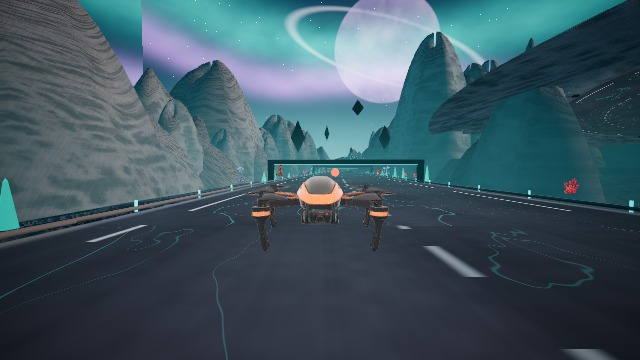
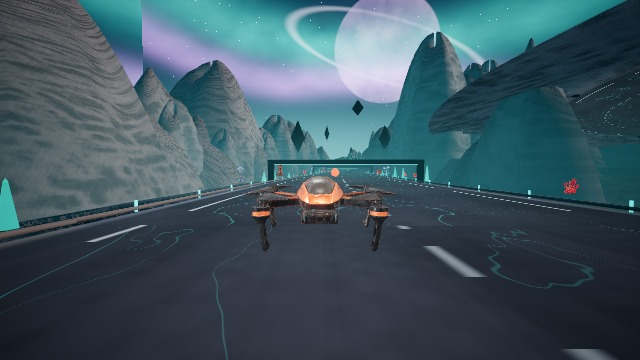
feat(ports): sun shadows in Serpentine Sky Run; fewer casters in Saltwind Highway and Ion Circuit; final evidence

Changed region(s): [[0.375, 0.4889, 0.625, 0.6417]]

diff --git a/examples/roadster-hours-port/world.ts b/examples/roadster-hours-port/world.ts
@@ -441,7 +441,7 @@ export function buildWorld(levelIndex: number): World {
   const builder: Scene = scene()
     .background(hexString(level.fog))
     .camera(camera.perspective({ position: roadPoint(level, 0, 0, 6), target: roadPoint(level, 40, 0, 2), fov: 60, near: 0.4, far: 7000 }))
-    .add(lights.directional({ name: "sun", position: [sunDirection[0] * 500, sunDirection[1] * 500, sunDirection[2] * 500], target: [0, 0, 0], intensity: look.keyLight.intensity, color: look.keyLight.color, shadow: enabled("shadow") ? { cascades: 2, maxDistance: 140 } : false }))
+    .add(lights.directional({ name: "sun", position: [sunDirection[0] * 500, sunDirection[1] * 500, sunDirection[2] * 500], target: [0, 0, 0], intensity: look.keyLight.intensity, color: look.keyLight.color, shadow: enabled("shadow") ? { cascades: 1, maxDistance: 90 } : false }))
     .add(lights.directional({ name: "fill", position: [-sunDirection[0] * 300, 120, -sunDirection[2] * 300], target: [0, 0, 0], intensity: look.fillLight.intensity, color: look.fillLight.color, shadow: false }));
   if (enabled("env")) builder.add(environments.preset(look.night ? "night" : look.id === "redline" ? "sunset" : "outdoor", { name: "route IBL", intensity: look.envIntensity, background: false }));
   if (enabled("fog")) builder.add(effects.fog({ name: "haze", density: look.engineFogDensity, color: look.engineFog }));
@@ -469,11 +469,11 @@ export function buildWorld(levelIndex: number): World {
       const t = (s - k.s) / k.len;
       return k.h * t * t;
     }, () => true, k.w);
-    builder.add(geometry.custom(dyn(wedge), { name: `kicker-${i}`, material: material.custom(rampSpec(look, glow)) }));
+    builder.add(geometry.custom(dyn(wedge), { name: `kicker-${i}`, material: material.custom(rampSpec(look, glow)), castShadow: false }));
   });
   level.shortcuts.forEach((sc, i) => {
     const deck = strip(level, sc.start, sc.end, 4, [sc.l - 5.5, sc.l, sc.l + 5.5], () => sc.height, () => true, 5.5);
-    builder.add(geometry.custom(dyn(deck), { name: `shortcut-${i}`, material: material.custom(rampSpec(look, glow)) }));
+    builder.add(geometry.custom(dyn(deck), { name: `shortcut-${i}`, material: material.custom(rampSpec(look, glow)), castShadow: false }));
   });
 
   /* ---- terrain, guardrails, towers ---- */
@@ -591,19 +591,20 @@ export function buildWorld(levelIndex: number): World {
     const base = roadPoint(level, g.s, 0, 0);
     for (const side of [-1, 1]) {
       const p = roadPoint(level, g.s, side * (width - 0.4), 6);
-      builder.add(primitives.box({ name: `gate-post-${i}-${side}`, position: p, rotation: [0, psi, 0], size: [0.7, 12, 0.7], material: gateMat() }));
+      builder.add(primitives.box({ name: `gate-post-${i}-${side}`, position: p, rotation: [0, psi, 0], size: [0.7, 12, 0.7], material: gateMat(), castShadow: false }));
     }
-    builder.add(primitives.box({ name: `gate-bar-${i}`, position: [base[0], base[1] + 12, base[2]], rotation: [0, psi, 0], size: [width * 2, 0.6, 0.6], material: gateMat() }));
+    builder.add(primitives.box({ name: `gate-bar-${i}`, position: [base[0], base[1] + 12, base[2]], rotation: [0, psi, 0], size: [width * 2, 0.6, 0.6], material: gateMat(), castShadow: false }));
   });
   level.cells.forEach((c, i) => {
     const p = roadPoint(level, c.s, c.l, c.h);
-    builder.add(primitives.sphere({ name: `cell-${i}`, position: p, size: 1.7, material: material.custom(solidSpec(look, hexLinear(0xf3b548), hexLinear(0xffa31a), 4.2, 0.35, 0.3)) }).runtime({ id: `cell-${i}` }));
+    builder.add(primitives.sphere({ name: `cell-${i}`, position: p, size: 1.7, material: material.custom(solidSpec(look, hexLinear(0xf3b548), hexLinear(0xffa31a), 4.2, 0.35, 0.3)), castShadow: false }).runtime({ id: `cell-${i}` }));
   });
   level.hazards.forEach((h, i) => {
     const tall = h.type === "vent";
     builder.add(primitives.cylinder({
       name: `hazard-${i}`, position: roadPoint(level, h.s, h.l, tall ? 2.5 : 0.8), size: [h.r * 2, tall ? 5 : 1.6, h.r * 2],
-      material: material.custom(solidSpec(look, hexLinear(tall ? 0x6fe4e6 : 0xe34a3a), hexLinear(tall ? 0x6fe4e6 : 0xe34a3a), tall ? 1.0 : 0.6, 0.45))
+      material: material.custom(solidSpec(look, hexLinear(tall ? 0x6fe4e6 : 0xe34a3a), hexLinear(tall ? 0x6fe4e6 : 0xe34a3a), tall ? 1.0 : 0.6, 0.45)),
+      castShadow: false
     }));
   });
 

diff --git a/examples/saiyan-snake-way-port/shaders.ts b/examples/saiyan-snake-way-port/shaders.ts
@@ -43,9 +43,10 @@ float fogAmount(float d){ return clamp((d - 430.0) / 580.0, 0.0, 1.0); }
 
 /** The original's toon ramp (bands 0.92 / 0.97 / 1.0 under a sky/ground hemisphere tint). */
 const TOON = /* glsl */ `
+float gToonShadow = 1.0; // sun-shadow factor, set per fragment by a3dSunShadowAuto in specs with receiveShadow: true
 vec3 toon(vec3 albedo, vec3 N) {
   vec3 L = normalize(vec3(-0.45, 1.0, 0.6));
-  float d = dot(N, L) * 0.5 + 0.5;
+  float d = min(dot(N, L) * 0.5 + 0.5, mix(0.30, 1.0, gToonShadow)); // shadow drops the surface to the lowest band
   float band = d < 0.34 ? 0.92 : (d < 0.67 ? 0.97 : 1.0);
   vec3 sky = mix(vec3(0.62, 0.52, 0.5), vec3(1.0, 0.93, 0.9), N.y * 0.5 + 0.5);
   return albedo * band * sky;
@@ -53,7 +54,7 @@ vec3 toon(vec3 albedo, vec3 N) {
 /** The same ramp with deeper bands, a sunset rim and a small highlight, so figures read as solid forms. */
 vec3 toonFigure(vec3 albedo, vec3 N, vec3 V) {
   vec3 L = normalize(vec3(-0.45, 1.0, 0.6));
-  float d = dot(N, L) * 0.5 + 0.5;
+  float d = min(dot(N, L) * 0.5 + 0.5, mix(0.29, 1.0, gToonShadow));
   float band = d < 0.30 ? 0.66 : (d < 0.62 ? 0.84 : (d < 0.86 ? 0.96 : 1.04));
   vec3 sky = mix(vec3(0.66, 0.5, 0.58), vec3(1.0, 0.92, 0.9), N.y * 0.5 + 0.5);
   float rim = pow(1.0 - max(dot(N, V), 0.0), 2.6);
@@ -82,6 +83,7 @@ void main() {
   vec3 N = normalize(vNormal);
   vec3 V = normalize(cameraPosition - vWorld);
   if (dot(N, V) < 0.0) N = -N;
+  gToonShadow = a3dSunShadowAuto(vWorld, N);
   vec3 col = toonFigure(baseColor, N, V) + glowColor * glow;
   outColor = vec4(fogMix(col, length(cameraPosition - vWorld)), 1.0);
 }`;
@@ -212,6 +214,7 @@ void main() {
   vec3 film = 0.5 + 0.5 * cos(6.2831853 * (vec3(0.0, 0.33, 0.67) + fres * 0.9 + tint * 0.6));
   albedo = mix(albedo, albedo * film * 1.08, 0.07 * top * detail);
 
+  gToonShadow = a3dSunShadowAuto(vWorld, N);
   vec3 col = toon(albedo, N);
   col += vec3(1.0, 0.82, 0.9) * pow(max(dot(N, SUN_DIR), 0.0), 3.0) * 0.07 * top;
 

diff --git a/examples/heatsink-port/world.ts b/examples/heatsink-port/world.ts
@@ -130,8 +130,8 @@ export function buildWorld(track: Track, quality: "high" | "low" = "high"): Worl
   for (const t of strike.targets) {
     const heavy = t.kind === "heavy";
     const r = STRIKE.radius[t.kind];
-    b.add(primitives.sphere({ name: `target-${t.id}`, size: r * 2.1, material: material.custom(solidSpec(hexLinear(heavy ? "#7a1c1c" : "#c82828"), hexLinear("#ff5a3a"), 2.2)) }).runtime({ id: `target-${t.id}` }));
-    b.add(primitives.torus({ name: `target-ring-${t.id}`, size: [r * 1.9, 0.22, 0.22], material: material.custom(solidSpec(hexLinear("#2a1010"), hexLinear(heavy ? "#ff7a3a" : "#ffb347"), 2.6)) }).runtime({ id: `target-ring-${t.id}` }));
+    b.add(primitives.sphere({ name: `target-${t.id}`, size: r * 2.1, material: material.custom(solidSpec(hexLinear(heavy ? "#7a1c1c" : "#c82828"), hexLinear("#ff5a3a"), 2.2)), castShadow: false }).runtime({ id: `target-${t.id}` }));
+    b.add(primitives.torus({ name: `target-ring-${t.id}`, size: [r * 1.9, 0.22, 0.22], material: material.custom(solidSpec(hexLinear("#2a1010"), hexLinear(heavy ? "#ff7a3a" : "#ffb347"), 2.6)), castShadow: false }).runtime({ id: `target-ring-${t.id}` }));
   }
 
   /* bolt tracers: a pooled strip of camera-facing quads, rebuilt every frame */

diff --git a/examples/saiyan-snake-way-port/world.ts b/examples/saiyan-snake-way-port/world.ts
@@ -156,7 +156,7 @@ export function buildWorld(options: WorldOptions = {}): World {
     .camera(camera.perspective({ position: [0, 6, 14], target: [0, 1, 0], fov: 62, near: 0.5, far: 6000 }))
     // the custom materials are unlit; these light the rigged runner (hemisphere colours are the look spec's)
     .add(lights.hemisphere({ name: "sky fill", skyColor: "#f6d0e6", groundColor: "#b98a2e", intensity: 1.1 }))
-    .add(lights.directional({ name: "sun", position: [-40, 60, -70], target: [0, 0, 0], intensity: 2.2, color: "#fff0dc" }));
+    .add(lights.directional({ name: "sun", position: [-40, 60, -70], target: [0, 0, 0], intensity: 2.2, color: "#fff0dc", shadow: (typeof location !== "undefined" && new URLSearchParams(location.search).get("shadow") === "0" ? false : { cascades: 1, maxDistance: 80 } as never) }));
 
   /* road + sky */
   const mesh = buildRoadMesh(samples);

diff --git a/examples/saiyan-snake-way-port/materials.ts b/examples/saiyan-snake-way-port/materials.ts
@@ -32,6 +32,7 @@ export const PALETTE = {
 } as const;
 
 export const solidSpec = (base: Rgb, glow: Rgb = [0, 0, 0], glowAmount = 0, extra: { transparent?: boolean; depthWrite?: boolean } = {}): CustomSpec => ({
+  receiveShadow: true,
   glsl: { vertex: SOLID_VERTEX, fragment: SOLID_FRAGMENT },
   uniforms: {
     baseColor: { type: "color3", value: [...base] },
@@ -52,6 +53,7 @@ export const glowSpec = (core: Rgb, shell: Rgb, alpha = 1, hollow = 0): CustomSp
 });
 
 export const roadSpec = (): CustomSpec => ({
+  receiveShadow: true,
   glsl: { vertex: ROAD_VERTEX, fragment: ROAD_FRAGMENT },
   uniforms: {
     roadTop: { type: "color3", value: [...hexLinear(PALETTE.roadTop)] },

diff --git a/tests/browser/port-sun-shadows-serpentine-sky-run.spec.ts b/tests/browser/port-sun-shadows-serpentine-sky-run.spec.ts
@@ -1,3 +1,3 @@
 import { defineSunShadowSpec } from "./port-sun-shadows-lib";
 
-defineSunShadowSpec({ id: "serpentine-sky-run", url: "/examples/saiyan-snake-way-port/?manual=1&autostart=1", hook: "__AURA_SERPENTINE_SKY_RUN__", begin: "start", step: "h.stepFrames(90)" });
+defineSunShadowSpec({ id: "serpentine-sky-run", url: "/examples/saiyan-snake-way-port/?manual=1&autostart=1", hook: "__AURA_SAIYAN_SNAKE_WAY__", begin: "start", step: "h.stepFrames(90)" });

diff --git a/CHANGELOG.md b/CHANGELOG.md
@@ -8,6 +8,8 @@ Public claims and release wording are governed by `docs/project/product-studio-c
 
 - **Aura Diamond 3D: the batter stands on the ground and both hands are on the bat in every phase (solver level).** Every athlete was placed at `y + 0.94` although `scaleMode: "fit"` already grounds the model, so all of them hovered a metre above the dirt and the swing was built to hit a ball a metre too low. The top hand also used the right arm's bind directions (23 cm off the bat), the grip point was a stale estimate, and the engine's bone attachment let the bat drift 14 to 76 cm from the hands in fast segments. The solver and swing keys now live in `src/batter-pose.ts` (pure functions, `tests/unit/aura-diamond/batter-grip.test.ts` sweeps stance, load, stride, contact across the strike zone, follow-through and recovery), the bat is placed from the same solve as the arms, and the stance is a real ready position. Bone-level grip is 0.1 cm in every phase; the drawn hands still do not meet the bat because the Diamond athlete mesh is bound mid-stride to a straight skeleton (rebuild tracked by the rigs lane). Evidence: `evidence/aura-diamond-3d/bat-fix/`.
 - **Sun shadows are back in Shadowstep Gauntlet and Ion Circuit.** Shadowstep Gauntlet (2 cascades, 90 m, village models, trees and actors cast, 127 draw calls against its 133 budget) and Ion Circuit (custom road, terrain and props receive through `a3d_shadow`). `?shadow=0` restores the previous look. Mean luma with the shadow is within 2 points of the no-shadow frame in both.
+- **Sun shadows are back in Serpentine Sky Run** (toon surfaces drop to the lowest band in shadow; 1 cascade, 80 m; luma within 0.1 of the no-shadow frame).
+- **Large instanced shadow casters draw as one batch per cascade.** Instances beyond the 64-matrix uniform array ride a per-instance vertex-attribute buffer: Shadowstep Gauntlet's village frame fell from 127 to 107 draw calls. Gameplay props and flat decals (strike targets, gates, cells, hazards, kickers) no longer cast in Ion Circuit (133 to 69 draw calls) and Saltwind Highway (215 to 110 with one cascade).
 - **Sun shadows are back in Saltwind Highway and Craterline GP** (custom road, terrain, track and prop surfaces receive through `a3d_shadow`; mean luma within 0.1 of the no-shadow frame; `?shadow=0` restores the previous look).
 - **Fix: GL feedback loop (0x502) when a custom receiver and an alpha-masked caster shared a frame.** The depth pass left `u_baseColorTexture` unbound for alpha casters without a map, so it read texture unit 0, which a custom receiver program fills with the cascade's own depth texture. The depth pass now binds an empty texture.
 - **Consumers can bundle the engine without top-level await.** The published solver init was a top-level `await`, which broke esbuild/Vite `es2020` targets and `iife`/`cjs` output (and, reachable from an import cycle, produced "Unexpected reserved word"). The default build is unchanged (`app.physics` stays synchronous); the new `aura3d-no-tla` bundler condition selects a lazy init, with `ensurePhysics()` and `physicsInitMode` exported from `@aura3d/engine/physics` and `@aura3d/physics`. `pnpm verify:no-tla` (in `verify:npm-release`) fails on any other top-level await in shipped dist, and `tests/unit/consumer-bundle/no-tla.test.ts` bundles the built engine at es2020/es2022, esm/iife, with and without the condition. The prd13 `run.ts` dev entry no longer awaits at the top level.

diff --git a/evidence/roadster-hours-port/shadows/README.md b/evidence/roadster-hours-port/shadows/README.md
@@ -1,10 +1,9 @@
 # Saltwind Highway (Roadster Hours): sun shadows on
 
-Remote software WebGL2 (`tests/browser/port-sun-shadows-roadster-hours.spec.ts`, run `p1shadow-g-roadster-hours`), 640x360, route 0, 180 steps after start, `?shadow=0` vs default. Not real-GPU evidence.
+Remote software WebGL2 (`tests/browser/port-sun-shadows-roadster-hours.spec.ts`, run `p1shadow-l-roadster-hours`), 640x360, `?shadow=0` vs default. Not real-GPU evidence.
 
 | | mean luma | draw calls |
 |---|---|---|
-| `?shadow=0` | 125.26 | 71 |
-| sun shadow (2 cascades, 140 m) | 125.18 | 215 |
-
-Road, ramps, terrain, towers, town and solid props are `material.custom` surfaces that receive the key light's shadow (`receiveShadow: true`; `lightSurface` scales the sun and specular terms by `gSunShadow`). The frame shows a tree's shadow on the right hillside. Draw calls rise because every small caster is drawn once per cascade; the shadow pass is software-GL heavy, so `?shadow=0` stays available. The first run hit a GL feedback loop (see the CHANGELOG entry on the alpha depth sampler); it is fixed.
+| `?shadow=0` | 120.54 | 71 |
+| sun shadow (1 cascade, 90 m) | 120.29 | 110 |
+Road, ramps, terrain, towers, town and solid props are `material.custom` surfaces that receive the key light's shadow (`lightSurface` scales the sun and specular terms by `gSunShadow`). The capture waits for the texture upgrade (an early frame shows white models: the white car in the first capture was timing, present with and without shadows). Gates, cells, hazards, kickers and shortcut decks do not cast; vehicles, poles, towers and town do. A tree's shadow is visible on the right hillside. Draw calls were 215 with two cascades and every prop casting. The vehicles are `batched.mesh` instances drawn through the instanced depth path.

diff --git a/evidence/ninja-runner-port/shadows/README.md b/evidence/ninja-runner-port/shadows/README.md
@@ -1,10 +1,9 @@
 # Shadowstep Gauntlet: sun shadows on
 
-Remote software WebGL2 (`tests/browser/port-sun-shadows-ninja-runner.spec.ts`, run `p1shadow-f-ninja-runner`), 640x360, autopilot to 90 m, `?shadow=0` vs default. Not real-GPU evidence.
+Remote software WebGL2 (`tests/browser/port-sun-shadows-ninja-runner.spec.ts`, run `p1shadow-i-ninja-runner`), 640x360, `?shadow=0` vs default. Not real-GPU evidence.
 
 | | mean luma | draw calls |
 |---|---|---|
-| `?shadow=0` | 148.75 | 51 |
-| sun shadow (2 cascades, 90 m) | 146.99 | 127 (budget 133) |
-
-The earlier "whole frame darkens by 8 to 14 luma points" was the 4000 m sky dome casting into the cascades (luma 142.79 against 157.46 at the run-start frame, `ninja-shadow-bisect` runs). Non-instanced casters larger than four shadow distances are now skipped (`shadow.caster.oversize:*` in `droppedFeatures`), so the lit frame matches the no-shadow frame apart from real shadows. The sun is behind the camera here, so shadows fall away from it and are subtle in this frame; the village models, trees and actors now cast.
+| `?shadow=0` | 147.09 | 51 |
+| sun shadow (2 cascades, 90 m) | 145.52 | 107 (budget 133) |
+The earlier "whole frame darkens by 8 to 14 luma points" was the 4000 m sky dome casting into the cascades (luma 142.79 against 157.46 at the run-start frame). Non-instanced casters larger than four shadow distances are now skipped (`shadow.caster.oversize:*` in `droppedFeatures`), so the lit frame matches the no-shadow frame apart from real shadows. Instanced casters beyond 64 instances draw in one batch per cascade (127 draw calls before that change). The sun is behind the camera here, so shadows fall away from it and are subtle in this frame; the village models, trees and actors cast.

diff --git a/evidence/heatsink-port/shadows/README.md b/evidence/heatsink-port/shadows/README.md
@@ -1,10 +1,9 @@
 # Ion Circuit (HEATSINK): sun shadows on
 
-Remote software WebGL2 (`tests/browser/port-sun-shadows-heatsink.spec.ts`, run `p1shadow-f-heatsink`), 640x360, 120 frames after start, `?shadow=0` vs default. Not real-GPU evidence.
+Remote software WebGL2 (`tests/browser/port-sun-shadows-heatsink.spec.ts`, run `p1shadow-k-heatsink`), 640x360, `?shadow=0` vs default. Not real-GPU evidence.
 
 | | mean luma | draw calls |
 |---|---|---|
-| `?shadow=0` | 81.53 | 63 |
-| sun shadow (2 cascades, 160 m) | 81.75 | 133 |
-
-The road, terrain and solid props are `material.custom` surfaces that now receive the key light's shadow (`receiveShadow: true`, `a3dSunShadowAuto`). Track-length meshes (road, rails, plains, rocks, arches) are skipped as oversize casters; the drone, gates and props cast.
+| `?shadow=0` | 81.63 | 63 |
+| sun shadow (2 cascades, 160 m) | 81.68 | 69 |
+Road, terrain and solid props are `material.custom` surfaces that receive the key light's shadow (`receiveShadow: true`, `a3dSunShadowAuto`). Track-length meshes are skipped as oversize casters; strike targets and flat decals do not cast; the drone, gate pylons and props do (133 draw calls before the targets stopped casting).

diff --git a/evidence/strange-orbit-port/shadows/README.md b/evidence/strange-orbit-port/shadows/README.md
@@ -1,10 +1,9 @@
 # Craterline GP (Strange Orbit): sun shadows on
 
-Remote software WebGL2 (`tests/browser/port-sun-shadows-strange-orbit.spec.ts`, run `p1shadow-g-strange-orbit`), 640x360, trial mode, 120 frames after start, `?shadow=0` vs default. Not real-GPU evidence.
+Remote software WebGL2 (`tests/browser/port-sun-shadows-strange-orbit.spec.ts`, run `p1shadow-i-strange-orbit`), 640x360, `?shadow=0` vs default. Not real-GPU evidence.
 
 | | mean luma | draw calls |
 |---|---|---|
 | `?shadow=0` | 90.05 | 23 |
-| sun shadow (2 cascades, 160 m) | 90.00 | 95 |
-
-The track, solids and minerals are `material.custom` surfaces that receive the key light's shadow (`shade()` scales the key term by `gKey`, and the key specular highlight too). The sky dome and star layers are skipped as oversize casters.
+| sun shadow (2 cascades, 160 m) | 90.01 | 95 |
+The track, solids and minerals are `material.custom` surfaces that receive the key light's shadow (`shade()` scales the key term and the key specular highlight by `gKey`). The sky dome and star layers are skipped as oversize casters.

diff --git a/evidence/saiyan-snake-way-port/shadows/README.md b/evidence/saiyan-snake-way-port/shadows/README.md
@@ -1,0 +1,9 @@
+# Serpentine Sky Run: sun shadows on
+
+Remote software WebGL2 (`tests/browser/port-sun-shadows-serpentine-sky-run.spec.ts`, run `p1shadow-l-serpentine-sky-run`), 640x360, `?shadow=0` vs default. Not real-GPU evidence.
+
+| | mean luma | draw calls |
+|---|---|---|
+| `?shadow=0` | 193.12 | 56 |
+| sun shadow (1 cascade, 80 m) | 193.04 | 111 |
+The road and solid figures are `material.custom` toon surfaces; a shadowed fragment drops to the lowest toon band (`gToonShadow`). The first runs timed out at ready only because the spec read `__AURA_SERPENTINE_SKY_RUN__`; `installQaHooks("saiyan-snake-way")` creates `__AURA_SAIYAN_SNAKE_WAY__` (the existing `tests/browser/saiyan-snake-way-*.spec.ts` still use the stale name).
